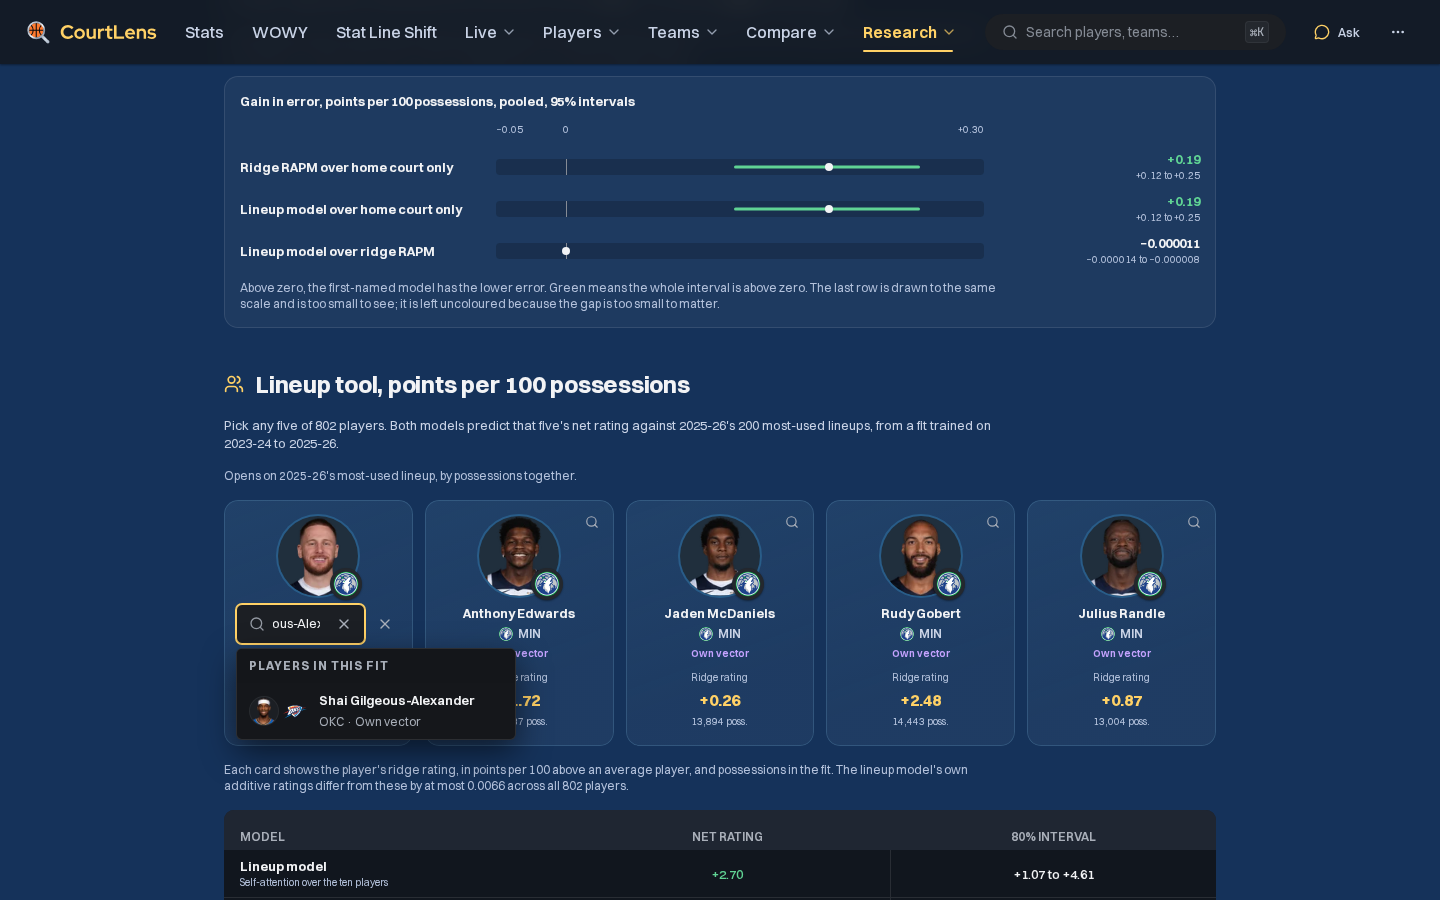
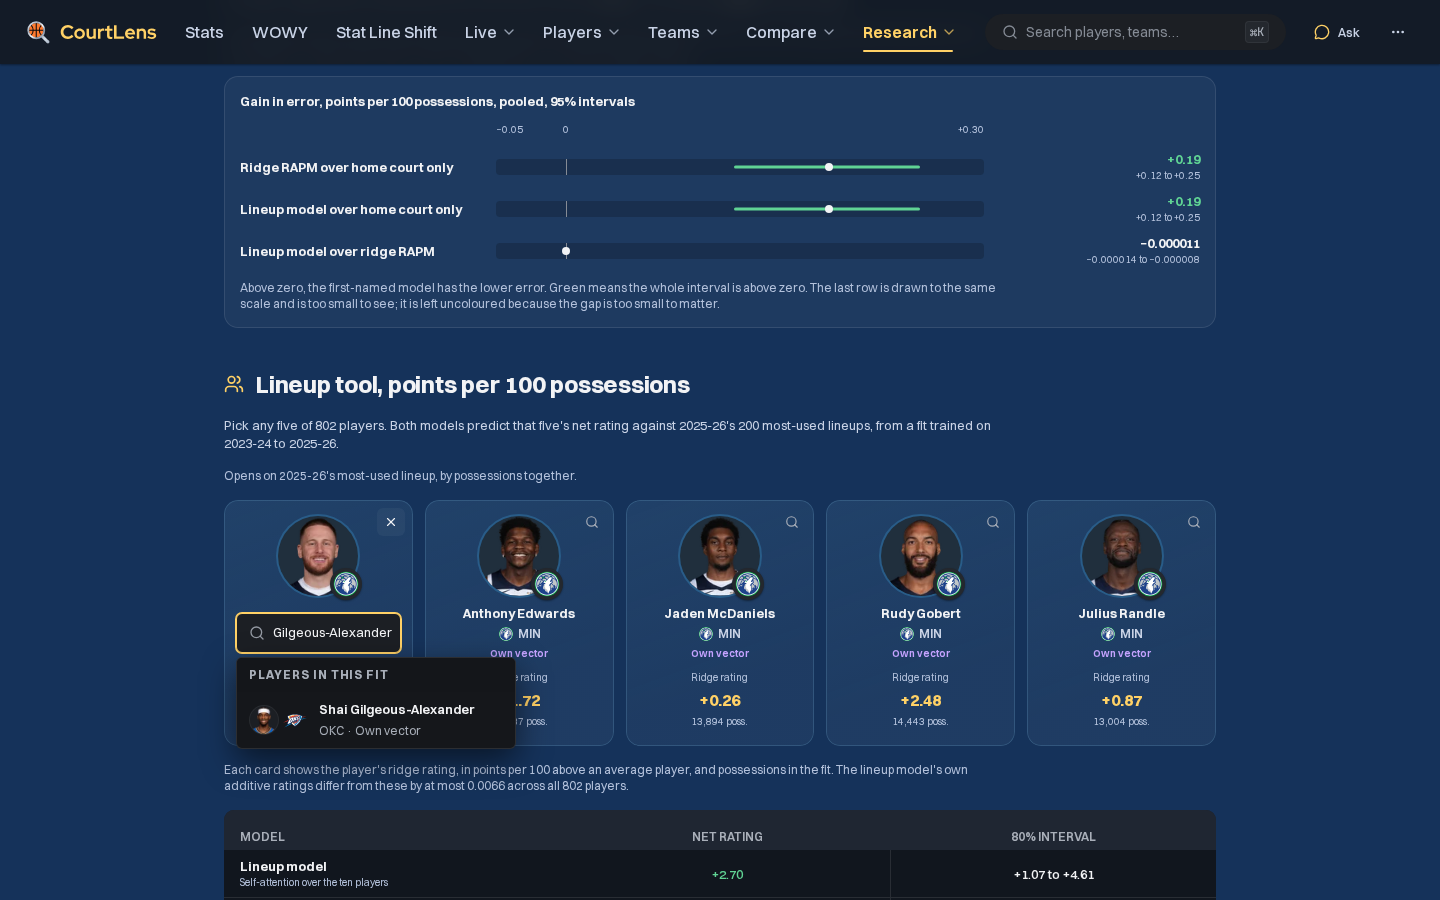
feat(design): RD12 round 2, the lineup search reworked and Six-Factor photos unclipped
The search takes the name block's place at the card's full width and leaves by the
card's own tool, Escape or a click elsewhere. The RAPM Ratings Leaders chart no
longer clips the photos' rings flat. No API, analysis, frozen result or interval
changed.

Changed region(s): [[0.1562, 0.6533, 0.375, 0.84]]

diff --git a/dashboard/components/lineup-model-research.tsx b/dashboard/components/lineup-model-research.tsx
@@ -1,6 +1,6 @@
 "use client";
 
-import { useMemo, useState, type CSSProperties } from "react";
+import { useEffect, useMemo, useRef, useState, type CSSProperties } from "react";
 import { LookupInput } from "./lookup-input";
 import {
   Glossary, MethodBlock, ResearchCard, ResearchCards, ResearchDisclosure, ResearchIntro, ResearchLinks, ResearchSection, type GlossaryGroup,
@@ -99,29 +99,38 @@ function Answer({ page }: { page: LineupModelPage }) {
 function Slot({ player, others, items, onPick }: { player: ToolPlayer; others: readonly string[]; items: readonly LookupItem[]; onPick: (id: string) => void }) {
   const [open, setOpen] = useState(false);
   const [text, setText] = useState("");
+  const root = useRef<HTMLElement>(null);
   const name = player.name ?? player.player_id;
   const team = player.tricode;
   const tint = teamAccent(team, player.photo_season);
   const close = () => { setOpen(false); setText(""); };
-  return <article className="lm-slot" data-slot={player.player_id} style={tint ? vars({ "--lm-team": tint }) : undefined}>
+  // A click anywhere else ends the search, so a card is never left holding a stranded field. The suggestions are portalled to the body.
+  useEffect(() => {
+    if (!open) return;
+    const away = (event: PointerEvent) => {
+      const target = event.target as Element;
+      if (root.current?.contains(target) || target.closest(".lookup-dropdown")) return;
+      setOpen(false); setText("");
+    };
+    document.addEventListener("pointerdown", away);
+    return () => document.removeEventListener("pointerdown", away);
+  }, [open]);
+  return <article ref={root} className="lm-slot" data-slot={player.player_id} data-searching={open || undefined} style={tint ? vars({ "--lm-team": tint }) : undefined}>
     <PlayerAvatar playerId={player.player_id} name={name} team={team} size="lg" era={seasonEra(player.photo_season, team)} />
-    {open ? <div className="lm-slot-search">
-      <LookupInput label={`Replace ${name}`} placeholder="Search players" value={text} onChange={setText} candidates={[...items]} excludedIds={[...others, player.player_id]} limit={12} groupLabel="Players in this fit" portalDropdown dropdownMinWidth={280} autoFocus
+    <span className="lm-slot-tool"><IconButton size="xs" variant="ghost" icon={open ? "close" : "search"} label={open ? `Cancel replacing ${name}` : `Replace ${name}`} onClick={() => open ? close() : setOpen(true)} /></span>
+    {open ? <div className="lm-slot-search" role="search" onKeyDown={event => { if (event.key === "Escape") close(); }}>
+      <LookupInput label={`Replace ${name}`} placeholder="Search players" value={text} onChange={setText} candidates={[...items]} excludedIds={[...others, player.player_id]} limit={12} groupLabel="Players in this fit" portalDropdown dropdownMinWidth={280} autoFocus openOnFocus={false} clearable={false}
         onSelect={item => { close(); onPick(item.canonical_id); }} />
-      <IconButton size="sm" variant="ghost" icon="close" label="Cancel" onClick={close} />
-    </div> : <>
-      <span className="lm-slot-tool"><IconButton size="xs" variant="ghost" icon="search" label={`Replace ${name}`} onClick={() => setOpen(true)} /></span>
-      <span className="lm-slot-copy">
-        <a className="lm-slot-name" href={`/players/${player.player_id}${player.photo_season ? `?season=${player.photo_season}` : ""}`}>{name}</a>
-        {team && <span className="lm-slot-team" data-field="team" data-value={team}><TeamLogo team={team} season={player.photo_season ?? undefined} size={16} />{team}</span>}
-        {player.status && <span className="lm-slot-status" data-field="status" data-status={player.status}>{STATUS_LABEL[player.status]}</span>}
-      </span>
-      <span className="lm-slot-rating">
-        <span>Ridge rating</span>
-        <strong data-field="rating" data-value={player.ridge_rating} data-additive={player.lineup_additive_rating} data-identity={identityOf(player.ridge_rating)}>{signed(player.ridge_rating)}</strong>
-        <small data-field="possessions" data-value={player.window_possessions ?? ""}>{player.window_possessions == null ? "No possessions" : `${whole(player.window_possessions)} poss.`}</small>
-      </span>
-    </>}
+    </div> : <span className="lm-slot-copy">
+      <a className="lm-slot-name" href={`/players/${player.player_id}${player.photo_season ? `?season=${player.photo_season}` : ""}`}>{name}</a>
+      {team && <span className="lm-slot-team" data-field="team" data-value={team}><TeamLogo team={team} season={player.photo_season ?? undefined} size={16} />{team}</span>}
+      {player.status && <span className="lm-slot-status" data-field="status" data-status={player.status}>{STATUS_LABEL[player.status]}</span>}
+    </span>}
+    <span className="lm-slot-rating">
+      <span>Ridge rating</span>
+      <strong data-field="rating" data-value={player.ridge_rating} data-additive={player.lineup_additive_rating} data-identity={identityOf(player.ridge_rating)}>{signed(player.ridge_rating)}</strong>
+      <small data-field="possessions" data-value={player.window_possessions ?? ""}>{player.window_possessions == null ? "No possessions" : `${whole(player.window_possessions)} poss.`}</small>
+    </span>
   </article>;
 }
 

diff --git a/dashboard/components/lookup-input.tsx b/dashboard/components/lookup-input.tsx
@@ -73,6 +73,8 @@ export interface LookupInputProps extends LookupScope {
   /** Minimum floating result width, bounded by the viewport. */
   dropdownMinWidth?: number;
   clearLabel?: string;
+  /** The clear button inside the field; a caller with its own way out can leave it off. */
+  clearable?: boolean;
   onClear?: () => void;
   /** False: focus alone (a programmatic one included) keeps results closed until the field is
       pressed, typed in or arrowed into (row 3, 69). */
@@ -84,7 +86,7 @@ export interface LookupInputProps extends LookupScope {
 const RECENT_IN_PICKER = 3;
 
 /** Form-safe lookup. Enter only commits an explicitly highlighted candidate. */
-export function LookupInput({ label, value, onChange, onSelect, onSubmitText, kinds, candidates, excludedIds = [], limit = 10, debounceMs = 120, placeholder = "Search by name", inputRef, autoFocus, required, disabled, compactResults = false, portalDropdown = false, dropdownMinWidth = 320, clearLabel, onClear, openOnFocus = true, groupLabel, ...scope }: LookupInputProps) {
+export function LookupInput({ label, value, onChange, onSelect, onSubmitText, kinds, candidates, excludedIds = [], limit = 10, debounceMs = 120, placeholder = "Search by name", inputRef, autoFocus, required, disabled, compactResults = false, portalDropdown = false, dropdownMinWidth = 320, clearLabel, onClear, clearable = true, openOnFocus = true, groupLabel, ...scope }: LookupInputProps) {
   const resolved = useLookupScope(scope);
   const key = buildLookupCacheKey({ query: value, ...resolved, kinds, limit }) + JSON.stringify(candidates ?? null);
   const id = useId();
@@ -209,7 +211,7 @@ export function LookupInput({ label, value, onChange, onSelect, onSubmitText, ki
           else if (event.key === "Escape") { if(open) event.preventDefault(); close(); }
           else if (event.key === "Tab") close();
         }} />
-      {value && !disabled && <IconButton size="sm" variant="ghost" icon="close" label={clearLabel ?? `Clear ${label}`} onClick={() => {change(""); onClear?.(); ref.current?.focus();}} />}
+      {clearable && value && !disabled && <IconButton size="sm" variant="ghost" icon="close" label={clearLabel ?? `Clear ${label}`} onClick={() => {change(""); onClear?.(); ref.current?.focus();}} />}
     </div>
     <span id={`${id}-status`} role="status" aria-live="polite" className="sr-only">{open && !loading && !ime ? error ?? `${items.length} suggestions. Use arrow keys to choose, then Enter.` : ""}</span>
     {portalDropdown ? position && dropdown && createPortal(dropdown, document.body) : dropdown}

diff --git a/dashboard/e2e/r14-lineup-model.spec.ts b/dashboard/e2e/r14-lineup-model.spec.ts
@@ -77,6 +77,31 @@ test.describe("R14 Lineup Model", () => {
     await expect(table.locator('tr[data-row="lineup_model"] [data-field="net"]')).toHaveAttribute("data-value", String(fit.lineup_model.net));
   });
 
+  test("the search sits inside the card, keeps the card whole and can be left three ways", async ({ page }) => {
+    await openWorkbench(page, path);
+    await expect(page.locator("[data-slot]")).toHaveCount(5);
+    const name = fit.players[0].name, slot = page.locator(`[data-slot="${fit.players[0].player_id}"]`);
+    const field = slot.getByRole("combobox", { name: `Replace ${name}` });
+    await slot.getByRole("button", { name: `Replace ${name}` }).click();
+    await expect(field).toBeFocused();
+    await expect(slot.locator('[data-field="rating"]')).toBeVisible();
+    await expect(page.locator(".lookup-dropdown")).toHaveCount(0);
+    const [card, box] = await Promise.all([slot.boundingBox(), slot.locator(".lookup-input-wrapper").boundingBox()]);
+    expect(box!.x).toBeGreaterThanOrEqual(card!.x);
+    expect(box!.x + box!.width).toBeLessThanOrEqual(card!.x + card!.width);
+    await field.fill("a");
+    await expect(page.locator(".lookup-dropdown")).toHaveCount(1);
+    await expect(slot.locator(".lookup-input-wrapper button")).toHaveCount(0);
+    await field.press("Escape");
+    await expect(field).toHaveCount(0);
+    await slot.getByRole("button", { name: `Replace ${name}` }).click();
+    await page.getByRole("heading", { name: "Player similarity map" }).click();
+    await expect(field).toHaveCount(0);
+    await slot.getByRole("button", { name: `Replace ${name}` }).click();
+    await slot.getByRole("button", { name: `Cancel replacing ${name}` }).click();
+    await expect(field).toHaveCount(0);
+  });
+
   test("the map keeps its warning above the dots and draws every served point", async ({ page }) => {
     await openWorkbench(page, path);
     await expect(page.locator("circle[data-player]")).toHaveCount(fixture.map.points.length);

diff --git a/dashboard/components/lineup-model-research.css b/dashboard/components/lineup-model-research.css
@@ -73,8 +73,8 @@
   .lm-slot-rating strong[data-identity="a"] { color: var(--color-identity-a); }
   .lm-slot-rating strong[data-identity="b"] { color: var(--color-identity-b); }
   .lm-slot-rating small, .lm-slot-rating span { color: var(--color-on-bg-tertiary); font-size: var(--text-2xs); line-height: var(--text-xs-lh); white-space: nowrap; }
-  .lm-slot-search { display: flex; align-items: center; gap: var(--space-1); width: 100%; min-width: 0; }
-  .lm-slot-search > :first-child { flex: 1 1 auto; min-width: 0; }
+  /* The search takes the place of the name block, the full width of the card, so nothing else on the card moves. */
+  .lm-slot-search { display: grid; align-items: center; width: 100%; min-width: 0; min-height: 58px; }
   .lm-fit.rs-grid { --rs-grid-min: 320px; }
   .lm-fit col:not(.rs-col-lead) { width: auto; }
 
@@ -110,7 +110,7 @@
     .lm-slot-rating { grid-column: 3; grid-row: 2; justify-items: end; }
     .lm-slot-copy { grid-column: 2; grid-row: 1 / span 2; }
     .lm-slot > .ui-identity { grid-column: 1; grid-row: 1 / span 2; }
-    .lm-slot-search { grid-column: 2 / -1; grid-row: 1 / span 2; }
+    .lm-slot-search { grid-column: 2; grid-row: 1 / span 2; min-height: 0; }
     .lm-fit.rs-grid[data-lead] { --rs-grid-lead: 136px; }
     .lm-test.rs-grid[data-lead] { --rs-grid-lead: 120px; }
     .lm-auto.rs-grid[data-lead] { --rs-grid-lead: 128px; }

diff --git a/dashboard/app/research/rapm/rapm-ratings.css b/dashboard/app/research/rapm/rapm-ratings.css
@@ -17,6 +17,8 @@
      compact names, and on a phone the name takes its own full-width line instead of being cut. */
   .rapm-headline { --rapm-photo: 44px; min-width: 0; }
   .rapm-headline .chart-meta { grid-row: 2; }
+  /* The label clipped to a box cuts the photo's ring flat; the name and the line under it truncate themselves (RD00: photos are never clipped). */
+  .rapm-headline .chart-ranked-label { overflow: visible; }
   .rapm-headline .chart-ranked-label .ui-identity { display: flex; --identity-media: var(--rapm-photo); }
   /* The games and minutes line starts under the name, not under the photo. */
   .rapm-headline .chart-ranked-label small { padding-left: calc(var(--rapm-photo) + var(--space-2)); }

diff --git a/docs/evidence/research/design-RD12/README.md b/docs/evidence/research/design-RD12/README.md
@@ -54,3 +54,27 @@ Before the rebuild (:3100, read 2026-11-09): four stat tiles and ten stacked hea
 **Glance test** (`lm-top-1440.png`, full pages at both widths, viewed). In five seconds: what the page is (hero), the answer in one sentence, and the strip showing the gap sitting on zero.
 
 Screenshots viewed: `lm-answer-*`, `lm-tool-*` (default, one box player, five box players, unavailable), `lm-search-1440.png`, `lm-test-*`, `lm-backtest-*`, `lm-map-*` (default and with a box player), `lm-reading-1440.png`, `lm-glossary-1440.png`, `lm-about-1440.png`, the full page at 1440. Section captures can show the sticky site header or the Skip to content link across a tall section; neither is on the page there. Visuals were judged from the sandbox build; the CSS chunk :3100 serves was stale after the last CSS change, was refreshed with the import toggle, and now has the new rules.
+
+## Round 2 (owner, 2026-11-09): the search, the Six-Factor photos, two questions
+
+| # | Change | Result |
+| --- | --- | --- |
+| 2 | "the player search in the lineup looks wonky" | The search takes the name block's place at the card's full width, so the photo and rating stay and the rating doesn't move (0 px at 1440). The card's own tool turns into the cancel: no X outside the field, and none inside it (`LookupInput` gained an optional `clearable`; without it nothing changes). The list opens only once something is typed. Escape, the cancel or a click elsewhere leaves it, so no card is left holding a stranded field |
+| 4 | "the palyer photos are still square cropped" (`/research/rapm`, Leaders) | `.chart-ranked-label`'s `overflow: hidden` cut each photo's ring flat at the top and left, against RD00's "never clipped". The Leaders chart no longer clips; the name and the line under it truncate themselves. Only `.rapm-headline` changed, in `rapm-ratings.css` |
+
+Questions 3 (positions) and 5 (more improvements) were answered in the report and nothing was built for them.
+
+**Page size.** Unchanged: 4,295 px at 1440 and 5,949 px at 390 with the disclosures collapsed.
+
+**Found by the check and the screenshots, then fixed.** The open card's rating sat 6 px lower than its neighbours' (a 64 px block replacing 58 px).
+
+| Check | Result |
+| --- | --- |
+| Lint, typecheck | clean |
+| Vitest | 843 passed |
+| `r14-lineup-model` ×3 (12 tests, one new for the search) | 36/36 |
+| Full Playwright | 621 passed, 17 skipped, 0 failed, on the final build |
+| Real data ([`real-data-check.json`](real-data-check.json), [`real-check.mjs`](real-check.mjs)) | 6,645 values (3,502 at 1440 over 12 loads; 3,143 at 390 over 9 loads), 0 mismatches, 0 console errors, 0 overflow, 0 broken images. New: the field inside the card, the rating kept and unmoved, no list before typing, no extra button, and all three ways out |
+| Photos ([`photo-check.json`](photo-check.json), [`photo-check.mjs`](photo-check.mjs)) | Both Six-Factor tabs, 1440 and 390, real data: 25 portraits on RAPM Ratings and 445 on Six-Factor, all circular, 0 cut by a box that doesn't scroll. Control: with the old rule put back, the check finds all 5 leaders cut at each width, so it does detect this fault |
+
+Screenshots viewed: `lm-search-1440.png`, `lm-search-390.png`, `rapm-leaders-1440.png`, `rapm-leaders-390.png`. The CSS chunk :3100 serves was checked for the new rules.

diff --git a/docs/research-design-catalog.md b/docs/research-design-catalog.md
@@ -138,6 +138,8 @@ Instructions (owner, 2026-11-06, round 7; screenshot of the All Ratings table sc
 
 Owner, 2026-11-07 (given during RD02 round 4, instruction 6): the dividers above and below the intro line removed.
 
+Owner, 2026-11-09 (given during RD12 round 2, instruction 4): "the palyer photos are still square cropped". The Leaders chart on RAPM Ratings no longer clips the photos' rings. Evidence: [`design-RD12`](evidence/research/design-RD12/README.md).
+
 ## RD01 Combine & Wingspan — ✅ approved by the owner (2026-11-07)
 
 - **Now:** the combine measurements view plus R10's plain sections: career and current DARKO D-DPM,
@@ -848,6 +850,16 @@ recommendations and suggestions for optimal construction and layout of this page
    - (7) How to read: three short cards and a collapsed glossary. (8) About this page, collapsed: selection grids, coverage, cold start, rule, method, credits, hashes, the restored-scores disclosure in plain words, the evidence link.
    - Q1: the ridge-against-lineup gains stay neutral, with "better by the registered rule, no practical difference"; other backtest rows keep green/red. Q2: the tool comes before the test detail. Q3: the map stays visible, last among the results, no player search.
    — Built as proposed: the answer in one sentence with the gap drawn to scale on zero, five team-tinted player cards with search in place, net rating with its 80% interval, gains before errors, the backtest in registered order, the warning above the map, How to read and a collapsed About. Real data 6,628 values, 0 mismatches; full Playwright 620 passed, 17 skipped, 0 failed.
+
+Instructions (owner, 2026-11-09, round 2; three screenshots, the search open in the first card and the Six-Factor Leaders list):
+2. [x] the player search in the lineup looks wonky
+   — The search now takes the name block's place at the card's full width, so the photo and rating stay and nothing moves. The card's own tool turns into the cancel, with no stray X; the list opens only once you type; Escape or a click elsewhere leaves it.
+3. (Question) Should we add symbol pg,sg,sf,pf,c positions, or does that matter fro the lineup tool?
+   — Answered, no change: position is not an input to either model, and the tool's API doesn't serve it (only the Stats query has estimated positions). Recommended leaving it off. Awaiting the owner.
+4. [x] on six-factor rapm page, the palyer photos are still square cropped, and it looks weird with their circle portraits.
+   — The Leaders chart's label box clipped the photos' rings flat at the top and left. It no longer clips; the name and caption still truncate themselves. All portraits on both Six-Factor tabs checked at both widths.
+5. (Question) Are there any more improvements we can make to the page?
+   — Answered with a list of proposals; nothing built. Awaiting the owner.
 
 Evidence: [`design-RD12`](evidence/research/design-RD12/README.md).
 

diff --git a/docs/research-progress.md b/docs/research-progress.md
@@ -927,3 +927,8 @@ The owner approved Projected Impact again ("Okay. I approve this page."), after 
 
 The page now answers in one sentence: on 3 seasons it never saw, the lineup model and ridge both miss a stint by 94.08 per 100, and ridge's 0.000011 edge is no practical difference. One strip draws that gap to scale beside ridge's +0.19 over home court. Five team-tinted player cards with search in place replace the five dropdowns, then net rating with its 80% interval, gains before errors, the game backtest in registered order, the map with its warning above it, How to read and a collapsed About. The lineup-against-ridge gains stay uncoloured (owner's Q1). 4,295 px at 1440 (was 7,246) and 5,949 at 390 (was 10,530). No API, analysis, frozen result or interval changed. Lint and typecheck clean, Vitest 843, `r14-lineup-model` ×3 33/33, full Playwright 620 passed, 17 skipped, 0 failed, real data 6,628 values, 0 mismatches.
 [`design-RD12`](evidence/research/design-RD12/README.md). Awaits the owner.
+
+## 2026-11-09 — RD12 round 2: the lineup search; Six-Factor photos
+
+The lineup tool's search now sits in the card at its full width, keeps the photo and rating in place, opens its list only on typing, and leaves by the card's own tool, Escape or a click elsewhere. On RAPM Ratings the Leaders chart no longer clips the photos' rings flat. Vitest 843, `r14-lineup-model` ×3 36/36, full Playwright 621 passed, 17 skipped, 0 failed, real data 6,645 values, 0 mismatches; 470 portraits per width across both Six-Factor tabs with none cut. No API, analysis, frozen result or interval changed.
+[`design-RD12`](evidence/research/design-RD12/README.md). Awaits the owner.
